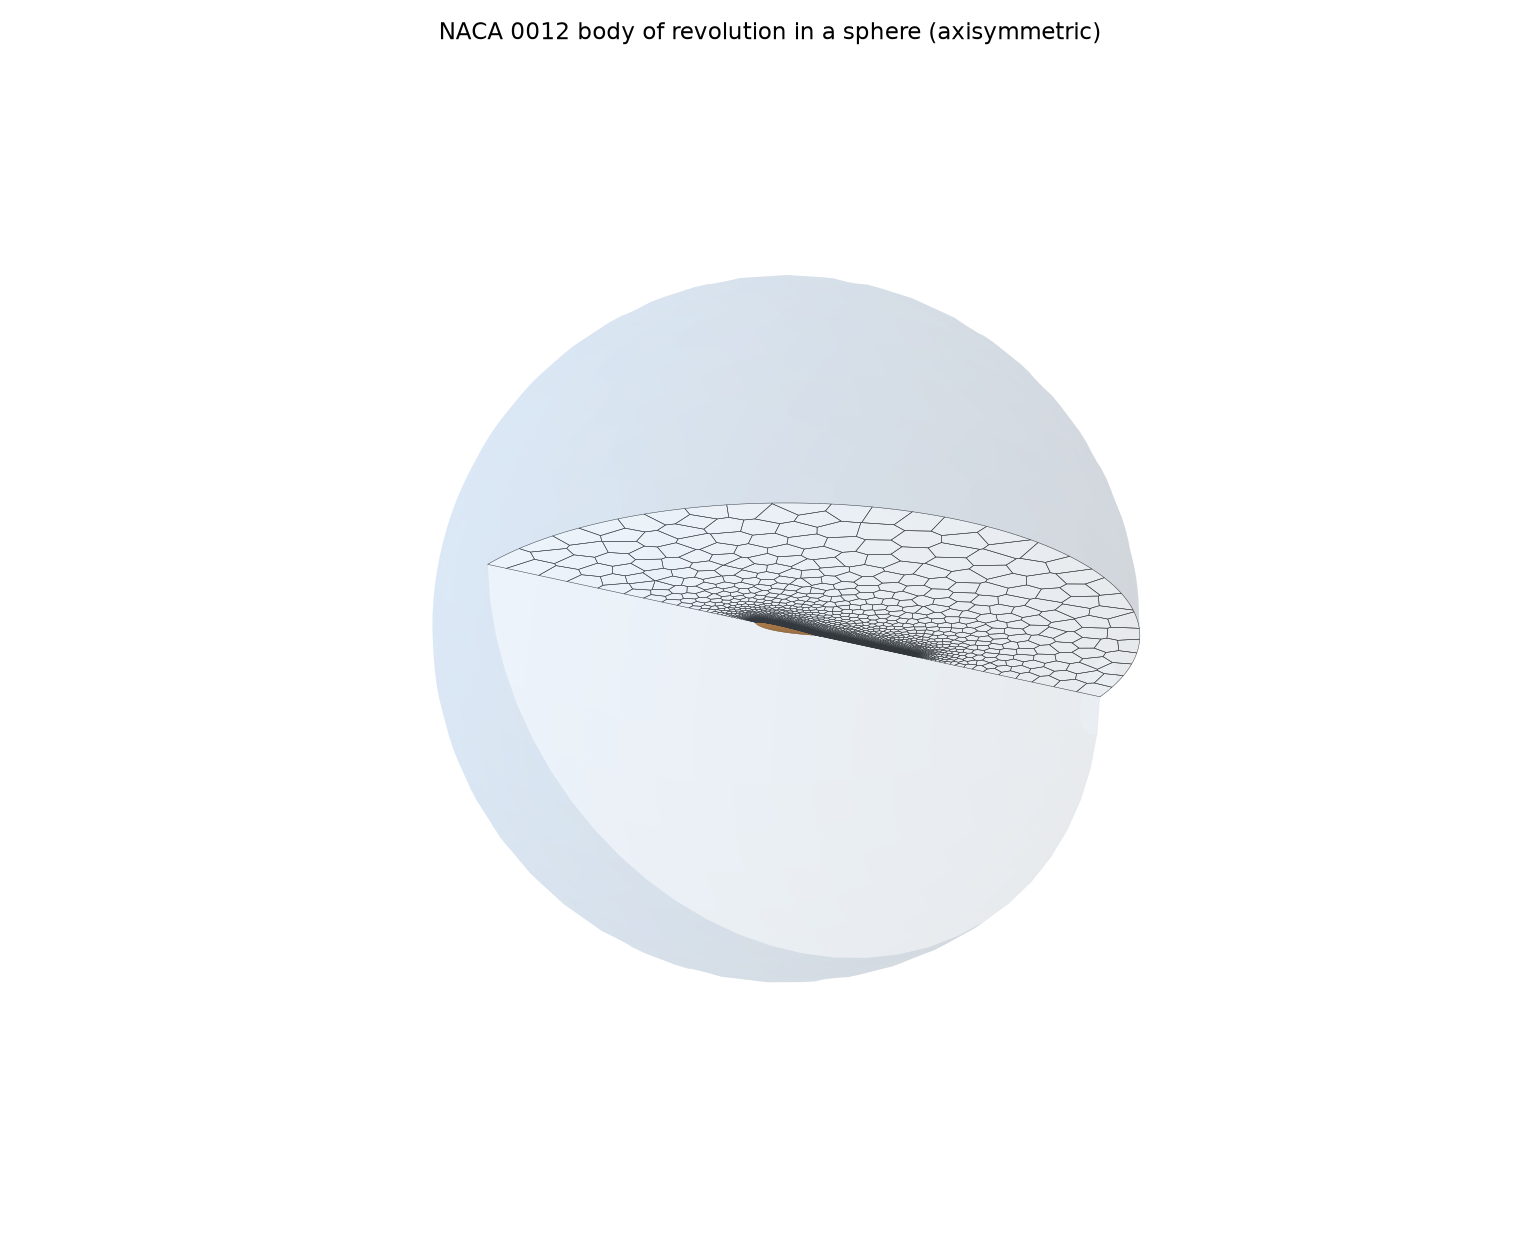
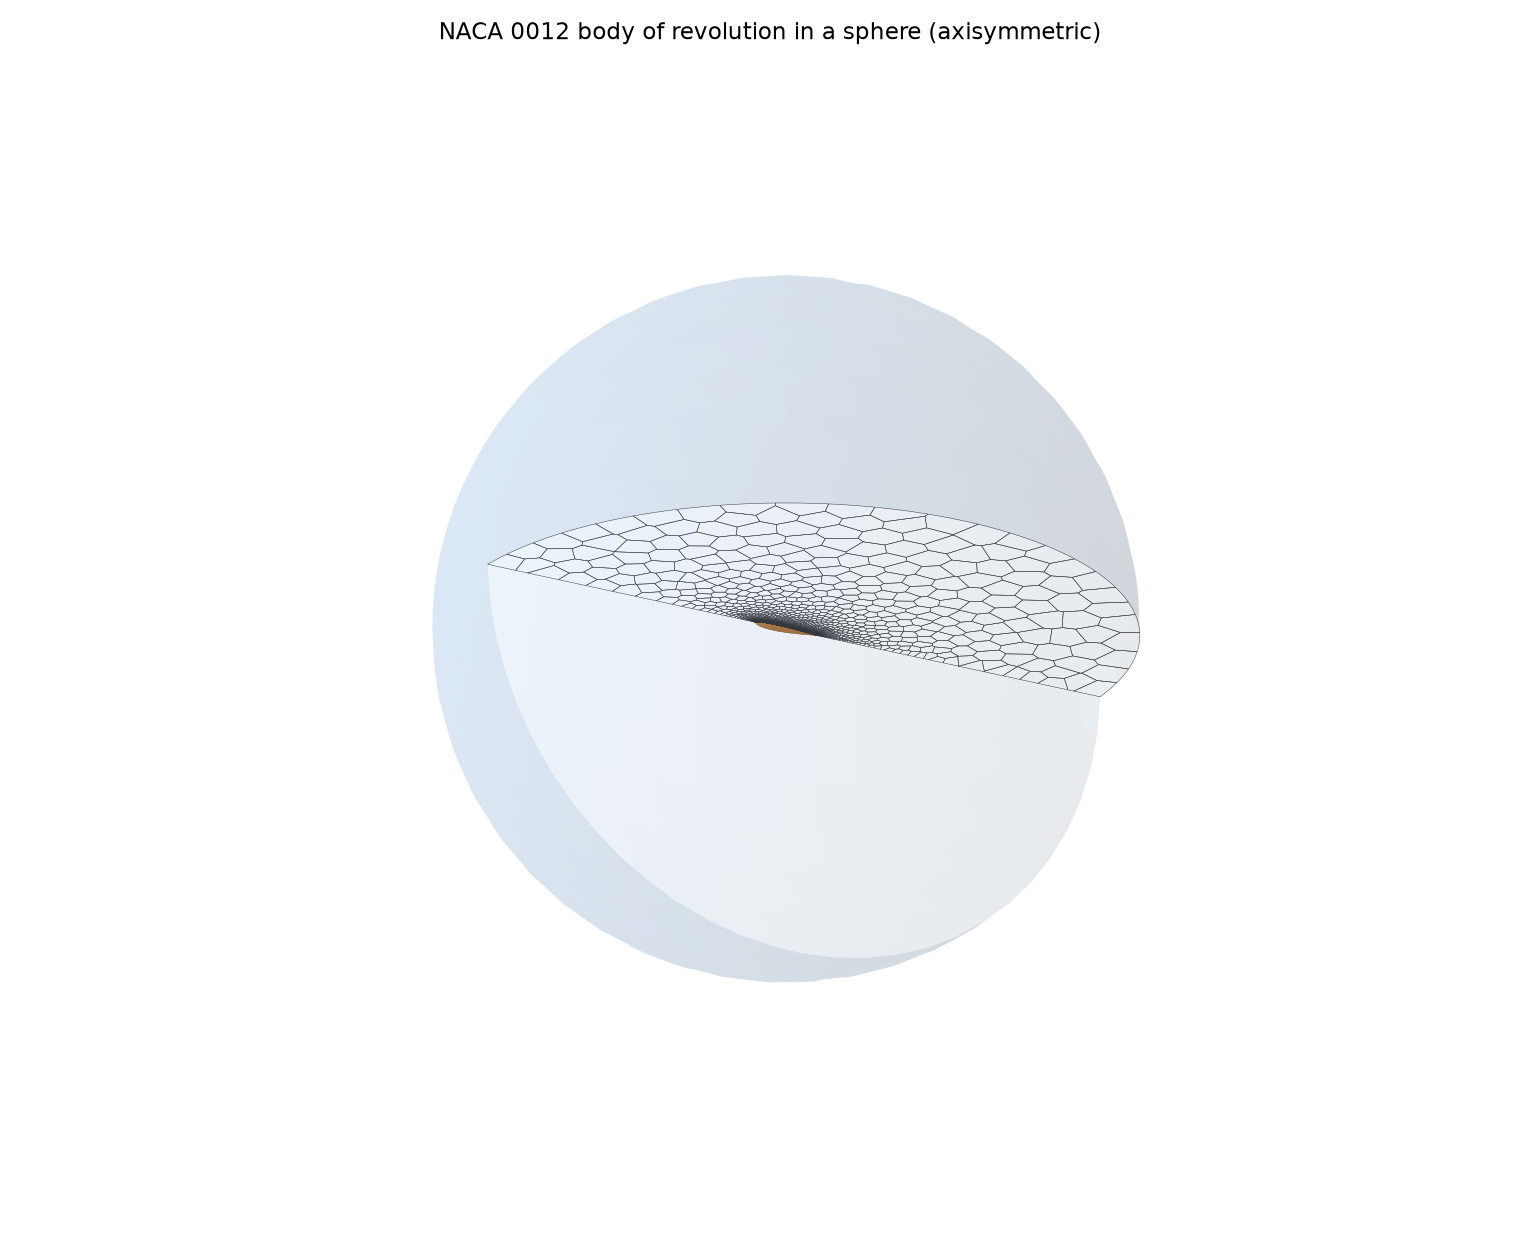
Fix bad axisymmetric trailing-edge elements
- Restrict the convex-vertex prism arc fan to corners where BOTH adjacent
  segments grow prism, so it no longer spills off the truncated tail base or
  along the axis into the wake (which produced radiating, ill-shaped cells).
  The nose still wraps cleanly (dense surface + axis reflection close it).
- Give the body of revolution a small blunt tail (truncate at 95% chord) so the
  trailing edge is not a mesh singularity on the axis, and thin the boundary
  layer (band ~0.032, physical vs the ~0.06 body radius) so it does not collapse
  onto the axis. Smooth radial near-wake grading replaces the on-axis strip.
  The near wake is now regular polyhedra with no radiating cells.
- Update the 3D shell thickness and refresh sphere preview images / README.

Airfoil and rect meshes unchanged and still pass validation.

Claude-Session: https://claude.ai/code/session_01H7fb4XKKcHpsxCit9RfSzp

Changed region(s): [[0.3429, 0.4024, 0.7481, 0.5571]]

diff --git a/src/main.cpp b/src/main.cpp
@@ -170,15 +170,22 @@ static void caseSphereAxi() {
     std::vector<std::string> patch;   // patch of segment nodes[i]->nodes[i+1]
     auto add = [&](Vec2 p, const std::string& seg) { nodes.push_back(p); patch.push_back(seg); };
 
-    add({-R, 0.0}, "axis");                                   // (-R,0) -> LE : axis
+    // Truncate the body at 95% chord -> small blunt tail (a flat disc on the
+    // axis) so the trailing edge is not a mesh singularity, exactly like the
+    // small blunt TE used on the 2D airfoil.
+    const double teCut = 0.95;
+    add({-R, 0.0}, "axis");                                   // (-R,0) -> nose : axis
     std::vector<Vec2> bodyPts;
-    for (int i = 0; i <= nb; ++i) {                           // body upper surface LE->TE
-        const double xl = 0.5 * (1.0 - std::cos(std::numbers::pi * i / nb));
+    for (int i = 0; i <= nb; ++i) {                           // body surface nose -> tail
+        const double xl = teCut * 0.5 * (1.0 - std::cos(std::numbers::pi * i / nb));
         const Vec2 p{x0 + chord * xl, chord * naca0012_yt(xl)};
         bodyPts.push_back(p);
-        add(p, i < nb ? "body" : "axis");                     // TE's outgoing seg -> axis
+        add(p, "body");                    // last body node's seg -> base (also "body")
     }
-    add({R, 0.0}, "farfield");                                // (R,0) -> arc : farfield
+    const Vec2 teU = bodyPts.back();       // tail top corner (x_TE, r_TE)
+    const Vec2 teL{teU.x, 0.0};            // tail on the axis
+    add(teL, "axis");                      // base (teU->teL) is "body"; teL->(R,0) axis
+    add({R, 0.0}, "farfield");             // (R,0) -> arc : farfield
     for (int j = 1; j < na; ++j) {                            // upper semicircle back to (-R,0)
         const double th = std::numbers::pi * j / na;
         add({R * std::cos(th), R * std::sin(th)}, "farfield");
@@ -190,28 +197,31 @@ static void caseSphereAxi() {
     L.patch = patch;
     L.hole = false;
     L.hBnd = 0.01;
-    L.prism = PrismSpec{15, 0.005, 1.05};
-    // prism only on the body surface (skip the axis and the farfield arc)
-    L.prismSkip = [R](const Vec2& a, const Vec2& b) {
+    L.prism = PrismSpec{15, 0.0015, 1.05};   // total ~0.032 (thin vs body radius)
+    // prism only on the body surface (skip the axis, the farfield arc and the
+    // small blunt-tail base)
+    auto same = [](const Vec2& p, const Vec2& q) { return dist(p, q) < 1e-9; };
+    L.prismSkip = [R, teU, teL, same](const Vec2& a, const Vec2& b) {
+        const bool base = (same(a, teU) && same(b, teL)) || (same(a, teL) && same(b, teU));
         const Vec2 m{(a.x + b.x) * 0.5, (a.y + b.y) * 0.5};
-        const bool body = (m.y > 1e-6) && (norm(m) < R - 1e-3);
+        const bool body = (m.y > 1e-6) && (norm(m) < R - 1e-3) && !base;
         return !body;
     };
     dom.loops.push_back(std::move(L));
     dom.build();
 
-    // Wake refinement: keep the mesh fine along the axis behind the tail (the
-    // trailing edge sits on the axis, so its boundary layer becomes the
-    // axisymmetric wake). These points only drive the size field, not geometry.
-    std::vector<Vec2> refine = bodyPts;
-    for (double xw = 0.5; xw <= 2.0; xw += 0.04) refine.push_back({xw, 0.0});
-
+    // Smooth radial grading from the body (incl. the blunt tail corner): no
+    // thin on-axis refinement strip, which would create stretched wake cells.
     const double band = dom.loops[0].prism.totalThickness();
-    const double hWall = 0.008;
+    const double hWall = 0.006;
+    const double xTE = teU.x;
     Mesher::Options mo;
-    mo.sizeField = [refine, band, hWall](Vec2 p) {
+    mo.sizeField = [bodyPts, band, hWall, xTE](Vec2 p) {
         double d = 1e9;
-        for (const auto& b : refine) d = std::min(d, dist(p, b));
+        for (const auto& b : bodyPts) d = std::min(d, dist(p, b));
+        // mild extra refinement in the near wake behind the tail (a region, not
+        // a line) so the transition stays smooth and cells stay well-shaped.
+        if (p.x > xTE && p.y < 0.25) d = std::min(d, 0.5 * (p.x - xTE) + p.y);
         return std::clamp(hWall + 0.12 * std::max(0.0, d - band), hWall, 0.5);
     };
     mo.lloydIters = 5;

diff --git a/include/poly2d/Mesher.hpp b/include/poly2d/Mesher.hpp
@@ -287,6 +287,12 @@ private:
                 const Vec2 vp = L.nodes[(i - 1 + n) % n];
                 const Vec2 v  = L.nodes[i];
                 const Vec2 vn = L.nodes[(i + 1) % n];
+                // only round genuine prism-band corners: both adjacent segments
+                // must grow prism (otherwise the fan would spill where the layer
+                // ends, e.g. a truncated blunt-tail base).
+                const bool prevPrism = !(L.prismSkip && L.prismSkip(vp, v));
+                const bool nextPrism = !(L.prismSkip && L.prismSkip(v, vn));
+                if (!(prevPrism && nextPrism)) continue;
                 const Vec2 dP = normalized(v - vp);
                 const Vec2 dN = normalized(vn - v);
                 // signed turning angle; convex (CW hole) vertices fan outward.

diff --git a/scripts/plot_revolve.py b/scripts/plot_revolve.py
@@ -102,7 +102,7 @@ def bodyview(path, out):
     ax.plot_surface(X, Y, Z, color="#d98a3a", alpha=1.0, linewidth=0)
 
     # boundary-layer shell (body offset by the prism-band thickness), translucent
-    band = 0.108
+    band = 0.032
     Xb, Yb, Zb = revolve(x, np.where(r > 1e-6, r + band, r), 90, 0, 1.5*math.pi)
     ax.plot_surface(Xb, Yb, Zb, color="#8fbfe8", alpha=0.18, linewidth=0)
 

diff --git a/README.md b/README.md
@@ -52,9 +52,10 @@ na ose, koule je horní polokruh. Mezní vrstva obtáčí nos i záď na ose.
 
 ![Meridiánová síť u tělesa](docs/images/sphere_body.png)
 
-Nos i odtoková hrana se řeší **stejně jako u profilu** (obloukový vějíř kolem
-konvexního vrcholu). TE leží na ose, takže mezní vrstva přejde do jemného
-osově symetrického úplavu (zjemnění size fieldem podél osy):
+Nos se řeší **stejně jako u profilu** (mezní vrstva ho obtočí a uzavře na ose).
+Záď je **malá tupá báze** (těleso uříznuté na 95 % — jako tenká tupá TE u
+profilu), takže není singularita na ose; s tenkou vrstvou přejde do
+pravidelného polyhedrálního úplavu bez špatných elementů:
 
 ![Detail odtokové hrany](docs/images/sphere_te.png)
 
